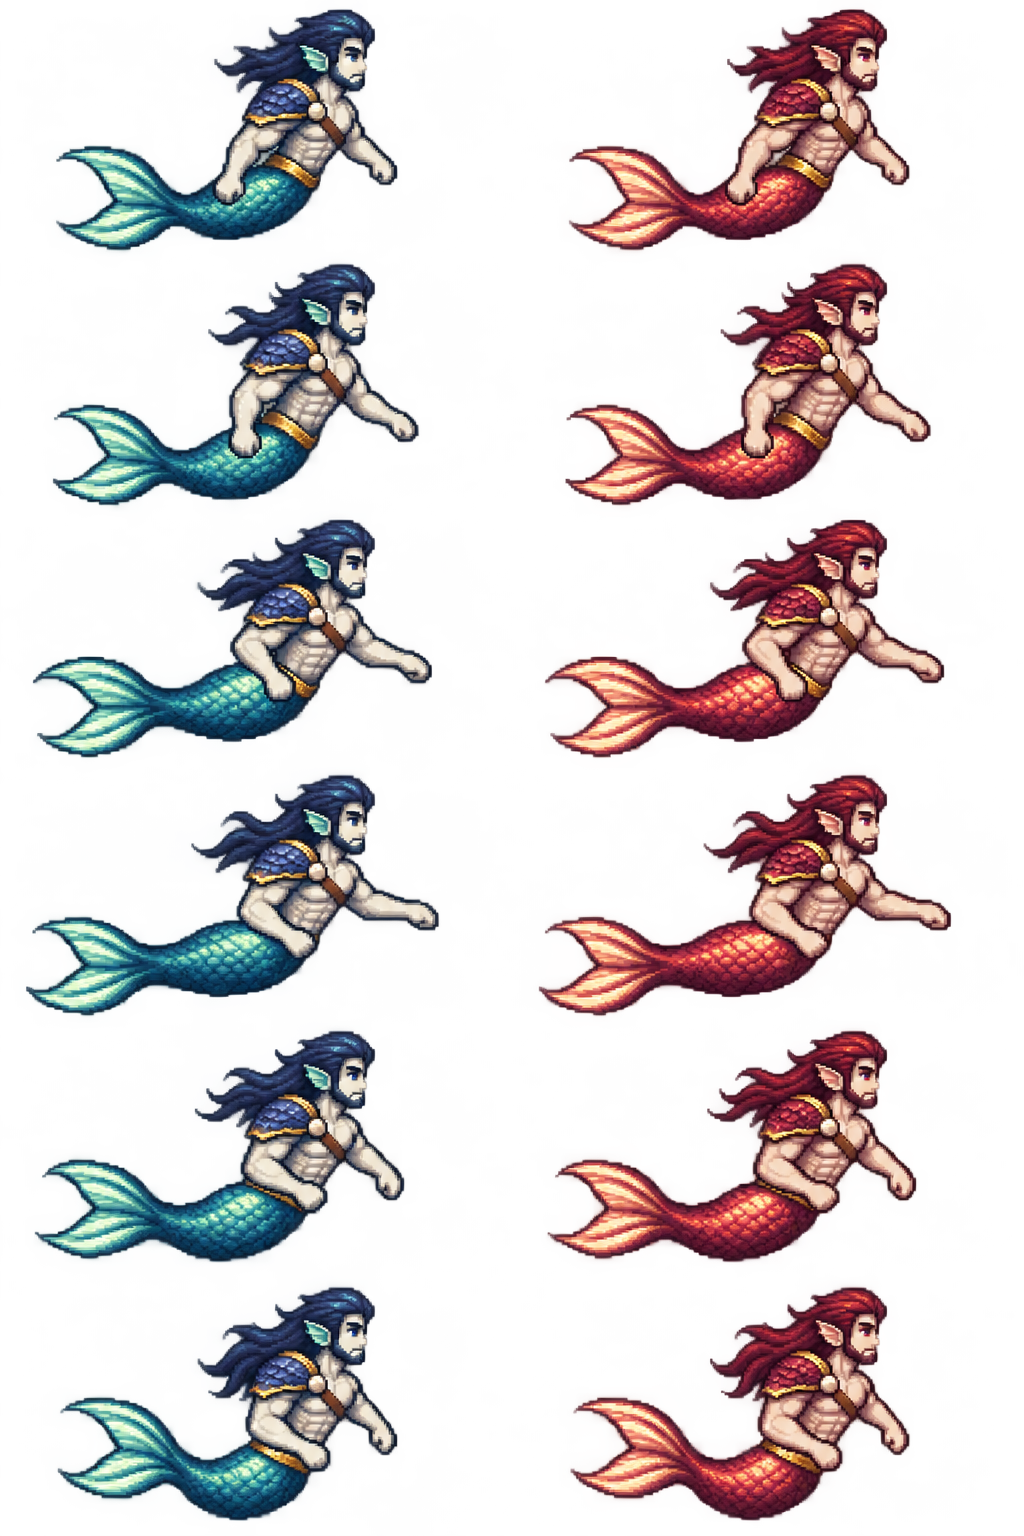
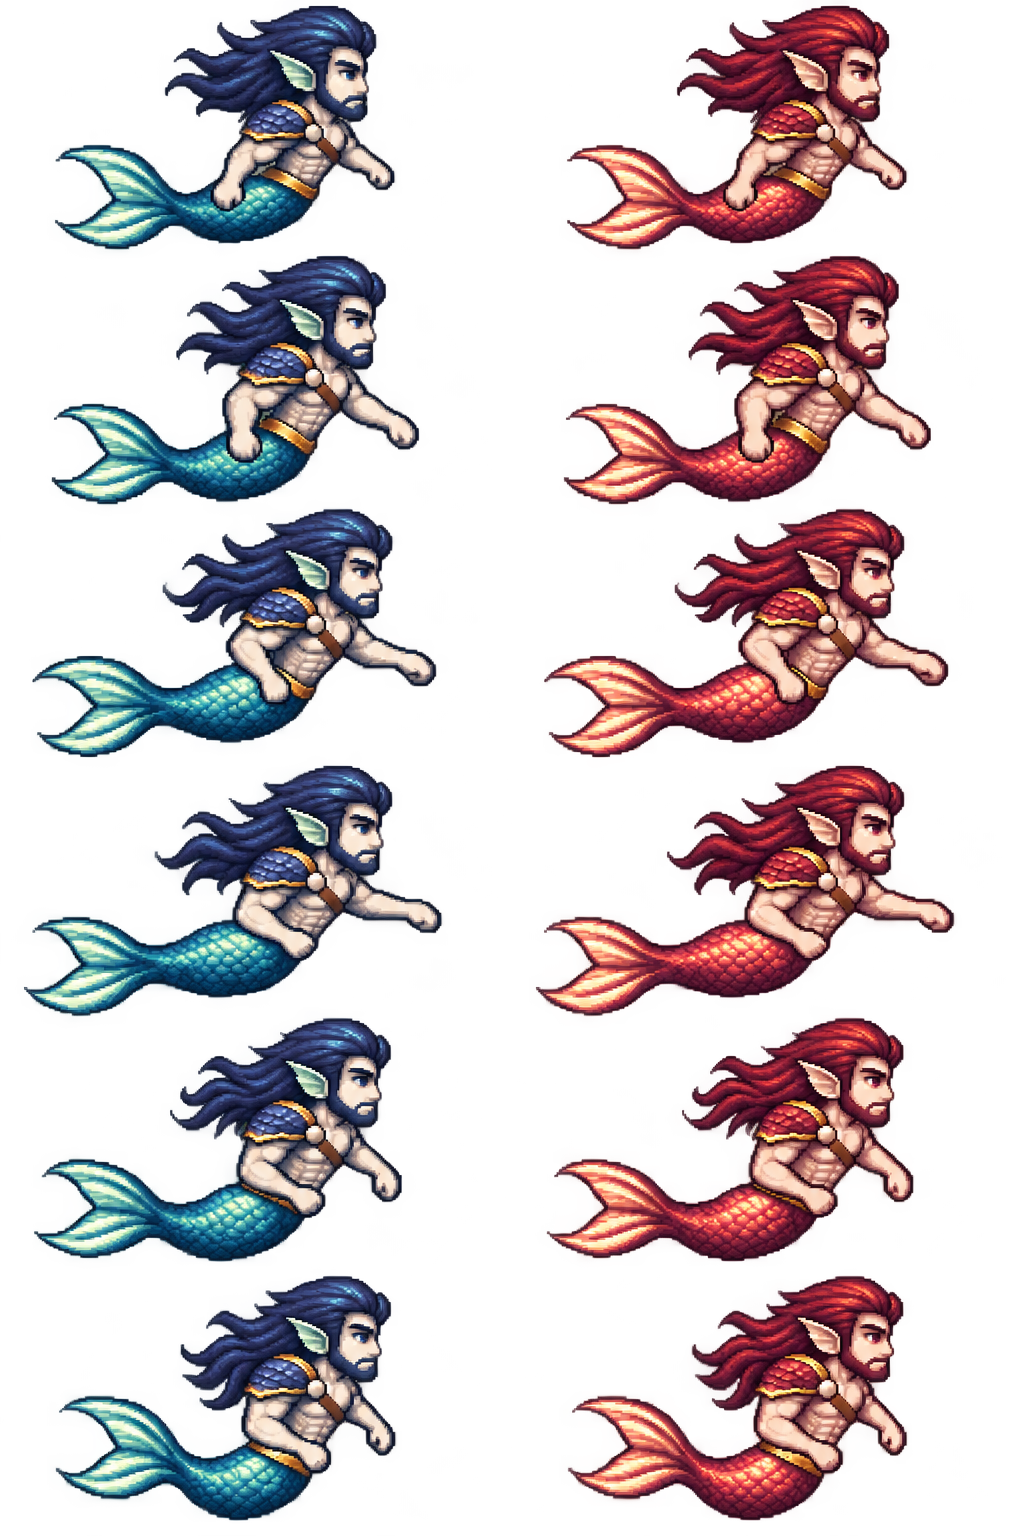
Enlarge merman heads to match mermaid proportions

diff --git a/README.md b/README.md
@@ -362,3 +362,8 @@ PNG: `Assets/NPCs/Merman.png` и `Merman_Red.png`. Художественный 
 проверками прошли 517 утверждений. Оба PNG содержат шесть различных кадров,
 сетку 2×2 и не обрезаны краями ячейки. Сборка без ошибок/предупреждений;
 окончательный вид анимации проверяется в игровом клиенте.
+
+Головы русалов увеличены в обоих цветовых вариантах: лицо, уши, волосы и борода
+теперь читаются крупнее относительно тела. Пропорции сравнены с готовым игровым
+спрайтом русалки. Размер листов остался 112×672; проверены шесть разных кадров,
+отсутствие обрезания и сетка 2×2. Поведение и характеристики не менялись.
